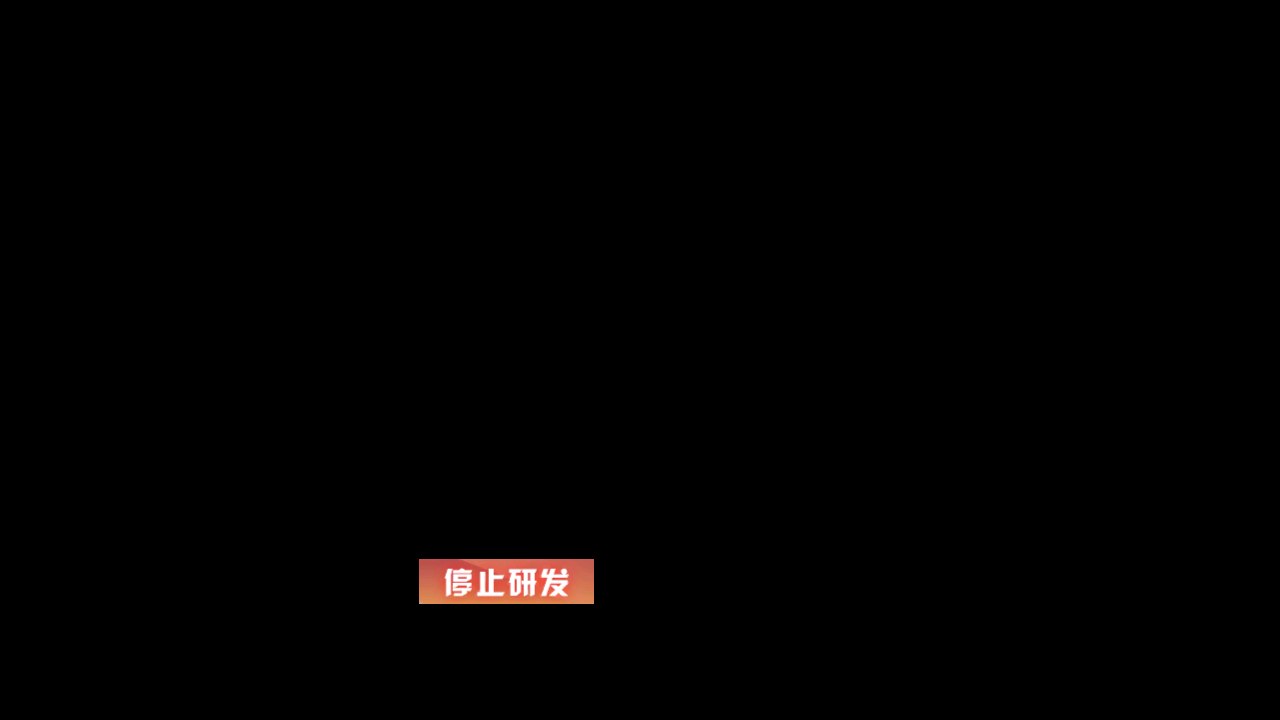
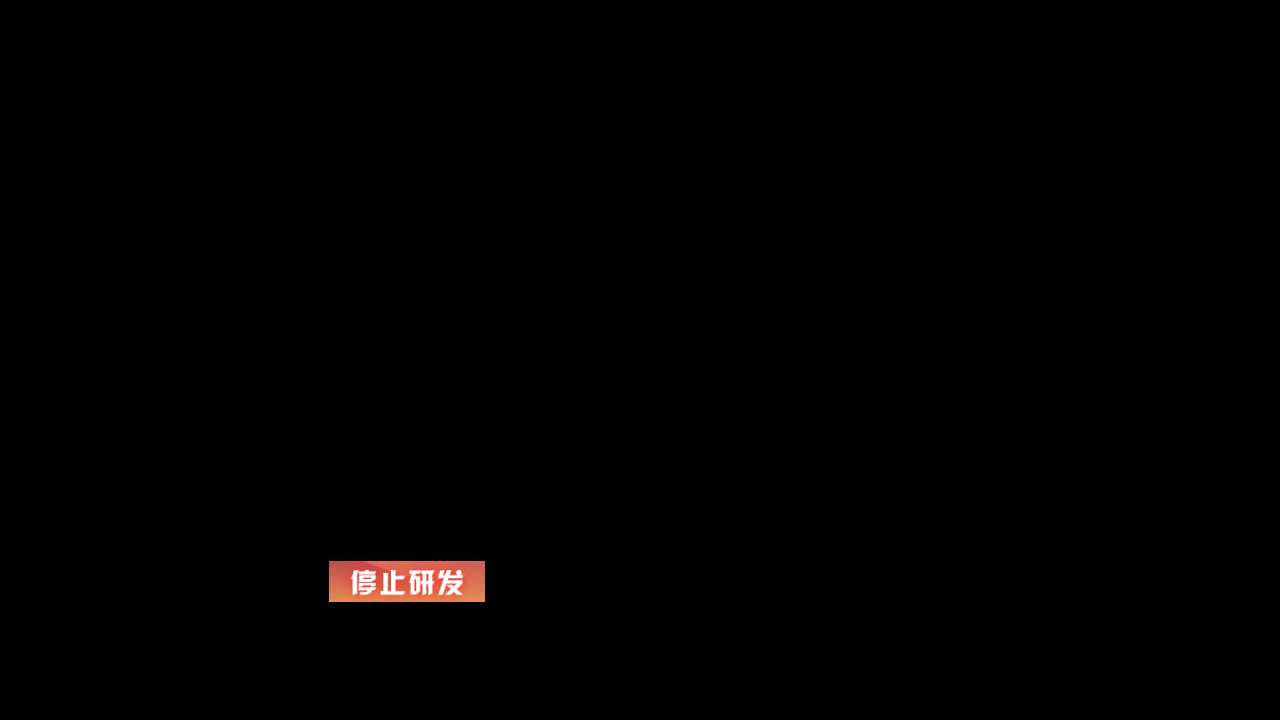
Add: Start research and add it into queue

Changed region(s): [[0.25, 0.7639, 0.4688, 0.8556]]

diff --git a/module/research/assets.py b/module/research/assets.py
@@ -36,8 +36,9 @@ RESEARCH_FINISHED = Button(area={'cn': (384, 547, 502, 585), 'en': (382, 545, 50
 RESEARCH_LAB = Button(area={'cn': (55, 518, 186, 559), 'en': (75, 539, 129, 558), 'jp': (56, 512, 189, 554), 'tw': (54, 533, 187, 562)}, color={'cn': (113, 142, 174), 'en': (133, 169, 199), 'jp': (106, 136, 168), 'tw': (121, 161, 195)}, button={'cn': (55, 518, 186, 559), 'en': (75, 539, 129, 558), 'jp': (56, 512, 189, 554), 'tw': (54, 533, 187, 562)}, file={'cn': './assets/cn/research/RESEARCH_LAB.png', 'en': './assets/en/research/RESEARCH_LAB.png', 'jp': './assets/jp/research/RESEARCH_LAB.png', 'tw': './assets/tw/research/RESEARCH_LAB.png'})
 RESEARCH_LAB_DURATION_REMAIN = Button(area={'cn': (379, 583, 504, 614), 'en': (379, 583, 504, 614), 'jp': (379, 583, 504, 614), 'tw': (379, 583, 504, 614)}, color={'cn': (158, 157, 158), 'en': (158, 157, 158), 'jp': (158, 157, 158), 'tw': (158, 157, 158)}, button={'cn': (379, 583, 504, 614), 'en': (379, 583, 504, 614), 'jp': (379, 583, 504, 614), 'tw': (379, 583, 504, 614)}, file={'cn': './assets/cn/research/RESEARCH_LAB_DURATION_REMAIN.png', 'en': './assets/en/research/RESEARCH_LAB_DURATION_REMAIN.png', 'jp': './assets/jp/research/RESEARCH_LAB_DURATION_REMAIN.png', 'tw': './assets/tw/research/RESEARCH_LAB_DURATION_REMAIN.png'})
 RESEARCH_PENDING = Button(area={'cn': (227, 589, 269, 607), 'en': (227, 589, 269, 607), 'jp': (221, 588, 282, 612), 'tw': (225, 586, 272, 612)}, color={'cn': (108, 163, 168), 'en': (98, 152, 158), 'jp': (101, 148, 156), 'tw': (93, 144, 151)}, button={'cn': (227, 589, 269, 607), 'en': (227, 589, 269, 607), 'jp': (221, 588, 282, 612), 'tw': (225, 586, 272, 612)}, file={'cn': './assets/cn/research/RESEARCH_PENDING.png', 'en': './assets/en/research/RESEARCH_PENDING.png', 'jp': './assets/jp/research/RESEARCH_PENDING.png', 'tw': './assets/tw/research/RESEARCH_PENDING.png'})
+RESEARCH_QUEUE_ADD = Button(area={'cn': (541, 570, 654, 595), 'en': (541, 570, 654, 595), 'jp': (541, 570, 654, 595), 'tw': (541, 570, 654, 595)}, color={'cn': (164, 203, 237), 'en': (164, 203, 237), 'jp': (164, 203, 237), 'tw': (164, 203, 237)}, button={'cn': (541, 570, 654, 595), 'en': (541, 570, 654, 595), 'jp': (541, 570, 654, 595), 'tw': (541, 570, 654, 595)}, file={'cn': './assets/cn/research/RESEARCH_QUEUE_ADD.png', 'en': './assets/cn/research/RESEARCH_QUEUE_ADD.png', 'jp': './assets/cn/research/RESEARCH_QUEUE_ADD.png', 'tw': './assets/cn/research/RESEARCH_QUEUE_ADD.png'})
 RESEARCH_RUNNING = Button(area={'cn': (313, 556, 362, 619), 'en': (313, 556, 362, 619), 'jp': (313, 556, 362, 619), 'tw': (313, 556, 362, 619)}, color={'cn': (124, 126, 131), 'en': (124, 126, 131), 'jp': (124, 126, 131), 'tw': (124, 126, 131)}, button={'cn': (313, 556, 362, 619), 'en': (313, 556, 362, 619), 'jp': (313, 556, 362, 619), 'tw': (313, 556, 362, 619)}, file={'cn': './assets/cn/research/RESEARCH_RUNNING.png', 'en': './assets/en/research/RESEARCH_RUNNING.png', 'jp': './assets/jp/research/RESEARCH_RUNNING.png', 'tw': './assets/tw/research/RESEARCH_RUNNING.png'})
-RESEARCH_START = Button(area={'cn': (446, 570, 568, 596), 'en': (434, 573, 577, 593), 'jp': (421, 562, 594, 605), 'tw': (423, 558, 594, 605)}, color={'cn': (170, 209, 241), 'en': (136, 182, 225), 'jp': (123, 173, 222), 'tw': (126, 176, 227)}, button={'cn': (446, 570, 568, 596), 'en': (434, 573, 577, 593), 'jp': (421, 562, 594, 605), 'tw': (423, 558, 594, 605)}, file={'cn': './assets/cn/research/RESEARCH_START.png', 'en': './assets/en/research/RESEARCH_START.png', 'jp': './assets/jp/research/RESEARCH_START.png', 'tw': './assets/tw/research/RESEARCH_START.png'})
+RESEARCH_START = Button(area={'cn': (445, 569, 568, 597), 'en': (434, 573, 577, 593), 'jp': (421, 562, 594, 605), 'tw': (423, 558, 594, 605)}, color={'cn': (173, 211, 242), 'en': (136, 182, 225), 'jp': (123, 173, 222), 'tw': (126, 176, 227)}, button={'cn': (445, 569, 568, 597), 'en': (434, 573, 577, 593), 'jp': (421, 562, 594, 605), 'tw': (423, 558, 594, 605)}, file={'cn': './assets/cn/research/RESEARCH_START.png', 'en': './assets/en/research/RESEARCH_START.png', 'jp': './assets/jp/research/RESEARCH_START.png', 'tw': './assets/tw/research/RESEARCH_START.png'})
 RESEARCH_STOP = Button(area={'cn': (329, 561, 485, 602), 'en': (417, 557, 596, 606), 'jp': (421, 562, 593, 605), 'tw': (423, 558, 594, 605)}, color={'cn': (228, 138, 117), 'en': (217, 122, 99), 'jp': (225, 137, 117), 'tw': (230, 141, 120)}, button={'cn': (329, 561, 485, 602), 'en': (417, 557, 596, 606), 'jp': (421, 562, 593, 605), 'tw': (423, 558, 594, 605)}, file={'cn': './assets/cn/research/RESEARCH_STOP.png', 'en': './assets/en/research/RESEARCH_STOP.png', 'jp': './assets/jp/research/RESEARCH_STOP.png', 'tw': './assets/tw/research/RESEARCH_STOP.png'})
 RESEARCH_UNAVAILABLE = Button(area={'cn': (445, 569, 568, 596), 'en': (434, 573, 577, 593), 'jp': (421, 562, 595, 605), 'tw': (440, 565, 576, 601)}, color={'cn': (176, 188, 209), 'en': (150, 176, 199), 'jp': (159, 174, 202), 'tw': (156, 181, 203)}, button={'cn': (445, 569, 568, 596), 'en': (434, 573, 577, 593), 'jp': (421, 562, 595, 605), 'tw': (440, 565, 576, 601)}, file={'cn': './assets/cn/research/RESEARCH_UNAVAILABLE.png', 'en': './assets/en/research/RESEARCH_UNAVAILABLE.png', 'jp': './assets/jp/research/RESEARCH_UNAVAILABLE.png', 'tw': './assets/tw/research/RESEARCH_UNAVAILABLE.png'})
 RESET_AVAILABLE = Button(area={'cn': (1153, 662, 1227, 679), 'en': (1099, 648, 1238, 693), 'jp': (1101, 650, 1236, 690), 'tw': (1102, 651, 1235, 691)}, color={'cn': (101, 118, 152), 'en': (62, 84, 110), 'jp': (74, 88, 121), 'tw': (67, 82, 116)}, button={'cn': (1153, 662, 1227, 679), 'en': (1099, 648, 1238, 693), 'jp': (1101, 650, 1236, 690), 'tw': (1102, 651, 1235, 691)}, file={'cn': './assets/cn/research/RESET_AVAILABLE.png', 'en': './assets/en/research/RESET_AVAILABLE.png', 'jp': './assets/jp/research/RESET_AVAILABLE.png', 'tw': './assets/tw/research/RESET_AVAILABLE.png'})

diff --git a/module/research/research.py b/module/research/research.py
@@ -8,13 +8,14 @@ from module.ocr.ocr import Duration
 from module.research.assets import *
 from module.research.project import (RESEARCH_ENTRANCE, ResearchProject,
                                      ResearchSelector, get_research_finished)
+from module.research.rqueue import ResearchQueue
 from module.ui.page import *
 
 OCR_DURATION = Duration(RESEARCH_LAB_DURATION_REMAIN, letter=(255, 255, 255), threshold=64,
                         name='RESEARCH_LAB_DURATION_REMAIN')
 
 
-class RewardResearch(ResearchSelector):
+class RewardResearch(ResearchSelector, ResearchQueue):
     _research_project_offset = 0
     _research_finished_index = 2
     research_project_started = None  # ResearchProject
@@ -22,9 +23,6 @@ class RewardResearch(ResearchSelector):
 
     def ensure_research_stable(self):
         self.wait_until_stable(STABLE_CHECKER)
-
-    def _in_research(self):
-        return self.appear(RESEARCH_CHECK, offset=(20, 20))
 
     def _research_has_finished_at(self, index):
         """
@@ -85,7 +83,7 @@ class RewardResearch(ResearchSelector):
                 continue
 
             # End
-            if executed and self._in_research():
+            if executed and self.is_in_research():
                 self.ensure_no_info_bar(timeout=3)  # Refresh success
                 self.ensure_research_stable()
                 break
@@ -153,12 +151,18 @@ class RewardResearch(ResearchSelector):
 
     def research_project_start(self, project, skip_first_screenshot=True):
         """
+        Start a given project and add it into research queue.
+
         Args:
             project (ResearchProject):
             skip_first_screenshot:
 
         Returns:
             bool: If start success.
+
+        Pages:
+            in: is_in_research
+            out: is_in_research
         """
         logger.info(f'Research project: {project}')
         if project in self.projects:
@@ -178,7 +182,7 @@ class RewardResearch(ResearchSelector):
             max_rgb = np.max(rgb2gray(self.image_crop(RESEARCH_UNAVAILABLE)))
 
             # Don't use interval here, RESEARCH_CHECK already appeared 5 seconds ago
-            if click_timer.reached() and self.appear(RESEARCH_CHECK, offset=(20, 20)):
+            if click_timer.reached() and self.is_in_research():
                 i = (index - self._research_project_offset) % 5
                 logger.info(f'Project offset: {self._research_project_offset}, project {index} is at {i}')
                 self.device.click(RESEARCH_ENTRANCE[i])
@@ -195,7 +199,7 @@ class RewardResearch(ResearchSelector):
             # End
             if self.appear(RESEARCH_STOP, offset=(20, 20)):
                 # RESEARCH_STOP is a semi-transparent button, color will vary depending on the background.
-                self.research_detail_quit()
+                self.research_queue_add()
                 # self.ensure_no_info_bar(timeout=3)  # Research started
                 self.research_project_started = project
                 return True
@@ -281,7 +285,7 @@ class RewardResearch(ResearchSelector):
                     record.add(self.device.image)
 
         # Close GET_ITEMS_*, to project list
-        self.ui_click(appear_button=get_items, click_button=GET_ITEMS_RESEARCH_SAVE, check_button=self._in_research,
+        self.ui_click(appear_button=get_items, click_button=GET_ITEMS_RESEARCH_SAVE, check_button=self.is_in_research,
                       skip_first_screenshot=True)
         return True
 
@@ -315,6 +319,17 @@ class RewardResearch(ResearchSelector):
 
         self._research_project_offset = 0
 
+        for _ in range(2):
+            logger.hr('Research select', level=1)
+            self.research_detect()
+            priority = self.research_sort_filter()
+            result = self.research_select(priority)
+            if result:
+                break
+
+        return True
+
+    def research_select_into_queue(self):
         for _ in range(2):
             logger.hr('Research select', level=1)
             self.research_detect()

diff --git a/module/research/rqueue.py b/module/research/rqueue.py
@@ -1,0 +1,41 @@
+from module.base.timer import Timer
+from module.handler.assets import POPUP_CANCEL, POPUP_CONFIRM
+from module.logger import logger
+from module.research.assets import *
+from module.ui.assets import RESEARCH_CHECK
+from module.ui.ui import UI
+
+
+class ResearchQueue(UI):
+    def is_in_research(self):
+        return self.appear(RESEARCH_CHECK, offset=(20, 20))
+
+    def research_queue_add(self, skip_first_screenshot=True):
+        """
+        Pages:
+            in: RESEARCH_QUEUE_ADD (is_in_research, DETAIL_NEXT)
+            out: is_in_research and stabled
+        """
+        logger.info('Research queue add')
+        confirm_timer = Timer(0.3, count=1)
+        # POPUP_CONFIRM has just been clicked in research_project_start()
+        self.interval_clear([POPUP_CANCEL, POPUP_CONFIRM])
+        while 1:
+            if skip_first_screenshot:
+                skip_first_screenshot = False
+            else:
+                self.device.screenshot()
+
+            if self.is_in_research() and not self.appear(DETAIL_NEXT, offset=(20, 20)):
+                # Not in detail page
+                if confirm_timer.reached():
+                    break
+            else:
+                confirm_timer.reset()
+
+            if self.appear_then_click(RESEARCH_QUEUE_ADD, offset=(20, 20), interval=3):
+                continue
+            if self.handle_popup_confirm('RESEARCH_QUEUE'):
+                continue
+
+        self.wait_until_stable(STABLE_CHECKER_CENTER)
